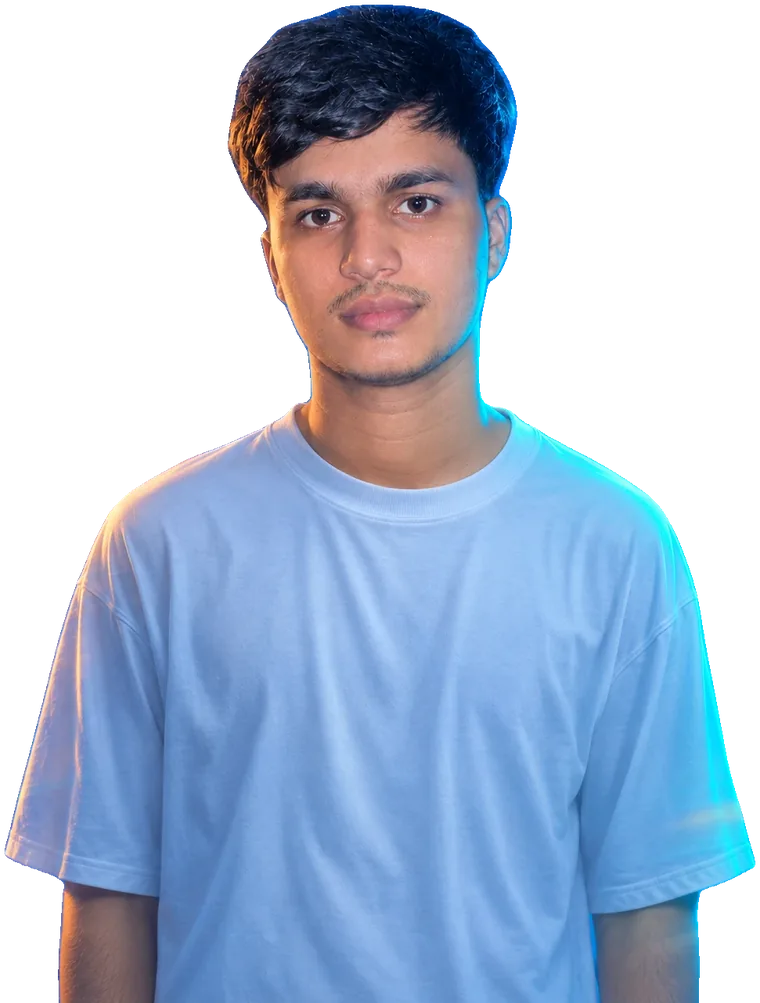
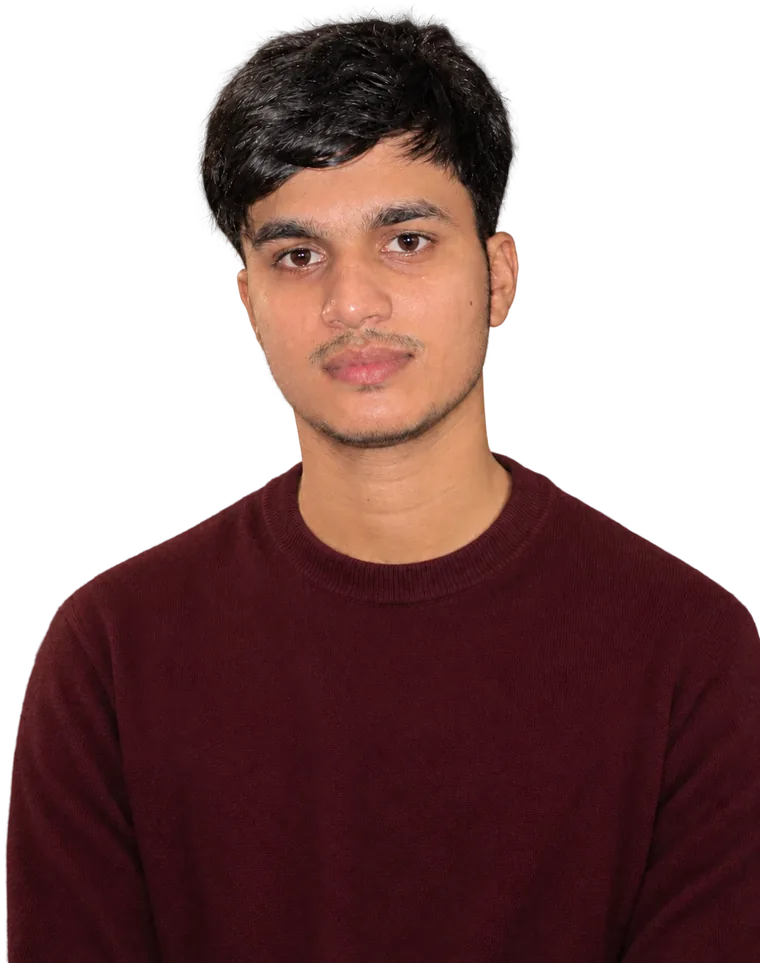
New hero photo, lead title with Web Designer, drop BSS row
- Hero photo replaced with the new portrait (transparent background, 760x963)
- Title and social titles now lead with Web Designer
- Remove BSS in Economics row from Journey
- Regenerate the share image with the new photo

diff --git a/index.html b/index.html
@@ -4,7 +4,7 @@
 <meta charset="utf-8">
 <meta name="viewport" content="width=device-width,initial-scale=1,viewport-fit=cover">
 <style>:root{color-scheme:light;box-sizing:border-box;padding-top:env(safe-area-inset-top,0px);padding-bottom:env(safe-area-inset-bottom,0px)}html{scroll-padding-top:env(safe-area-inset-top,0px)}body{margin:0;padding:0;font:14px -apple-system,BlinkMacSystemFont,sans-serif;background:#fff;color:#000}img{max-width:100%}[hidden]:not([hidden=until-found i]){display:none!important}</style>
-<title>Tahmid Sikder Rifat | Video Editor, Graphic &amp; Web Designer in Sylhet</title>
+<title>Tahmid Sikder Rifat – Web Designer, Graphic Designer &amp; Video Editor</title>
 <link rel="icon" href="favicon.ico" sizes="48x48">
 <link rel="icon" type="image/png" href="icon.png" sizes="192x192">
 <link rel="apple-touch-icon" href="apple-touch-icon.png">
@@ -17,7 +17,7 @@
 <link rel="canonical" href="https://www.tahmidsikder.me/">
 <meta property="og:type" content="profile">
 <meta property="og:site_name" content="Tahmid Sikder Rifat">
-<meta property="og:title" content="Tahmid Sikder Rifat | Video Editor, Graphic &amp; Web Designer">
+<meta property="og:title" content="Tahmid Sikder Rifat – Web Designer, Graphic Designer &amp; Video Editor">
 <meta property="og:description" content="CSE student at Metropolitan University, Sylhet. Videos, designs and websites, plus ClipBoard for Linux Mint.">
 <meta property="og:url" content="https://www.tahmidsikder.me/">
 <meta property="og:image" content="https://www.tahmidsikder.me/og-image.jpg">
@@ -27,7 +27,7 @@
 <meta property="profile:first_name" content="Tahmid Sikder">
 <meta property="profile:last_name" content="Rifat">
 <meta name="twitter:card" content="summary_large_image">
-<meta name="twitter:title" content="Tahmid Sikder Rifat | Video Editor, Graphic &amp; Web Designer">
+<meta name="twitter:title" content="Tahmid Sikder Rifat – Web Designer, Graphic Designer &amp; Video Editor">
 <meta name="twitter:description" content="CSE student at Metropolitan University, Sylhet. Videos, designs and websites, plus ClipBoard for Linux Mint.">
 <meta name="twitter:image" content="https://www.tahmidsikder.me/og-image.jpg">
 <script type="application/ld+json">
@@ -41,7 +41,7 @@
       "alternateName": ["Tahmid Sikder", "Rifat"],
       "url": "https://www.tahmidsikder.me/",
       "image": "https://www.tahmidsikder.me/assets/rifat.webp",
-      "jobTitle": "Video Editor, Graphic Designer and Web Designer",
+      "jobTitle": "Web Designer, Graphic Designer and Video Editor",
       "description": "CSE student at Metropolitan University in Sylhet, Bangladesh, who edits videos, designs graphics and builds websites.",
       "email": "mailto:tahmidsikderrifat@gmail.com",
       "address": {"@type": "PostalAddress", "addressLocality": "Sylhet", "addressCountry": "BD"},
@@ -433,7 +433,7 @@ footer{position:relative;overflow:hidden;border-top:1px solid var(--line);paddin
       </div>
     </div>
     <div class="portrait" id="portrait">
-      <picture><source type="image/avif" srcset="assets/rifat.avif"><img id="me" src="assets/rifat.webp" alt="Portrait of Tahmid Sikder Rifat in a white T-shirt" width="760" height="1003" fetchpriority="high" decoding="async"></picture>
+      <picture><source type="image/avif" srcset="assets/rifat.avif"><img id="me" src="assets/rifat.webp" alt="Portrait of Tahmid Sikder Rifat, web designer from Sylhet" width="760" height="963" fetchpriority="high" decoding="async"></picture>
       <div class="floor" aria-hidden="true"></div>
     </div>
     <div class="hero-right">
@@ -587,7 +587,6 @@ footer{position:relative;overflow:hidden;border-top:1px solid var(--line);paddin
     <div class="jrow"><span class="t">HSC · GPA 5.00 / 5.00</span><span class="o">Sylhet Cantonment Public School &amp; College</span><span class="k">Education</span><span class="y">2024</span></div>
     <div class="jrow"><span class="t">Basic Web Development Training</span><span class="o">Youth ICT · Reg. No. 202064</span><span class="k">Certificate</span><span class="y">2023</span></div>
     <div class="jrow"><span class="t">SSC · GPA 5.00 / 5.00</span><span class="o">Sylhet Cantonment Public School &amp; College</span><span class="k">Education</span><span class="y">2022</span></div>
-    <div class="jrow"><span class="t">BSS in Economics (transferred to CSE)</span><span class="o">National University</span><span class="k">Education</span><span class="y">Before 2026</span></div>
   </div>
 </section>
 
